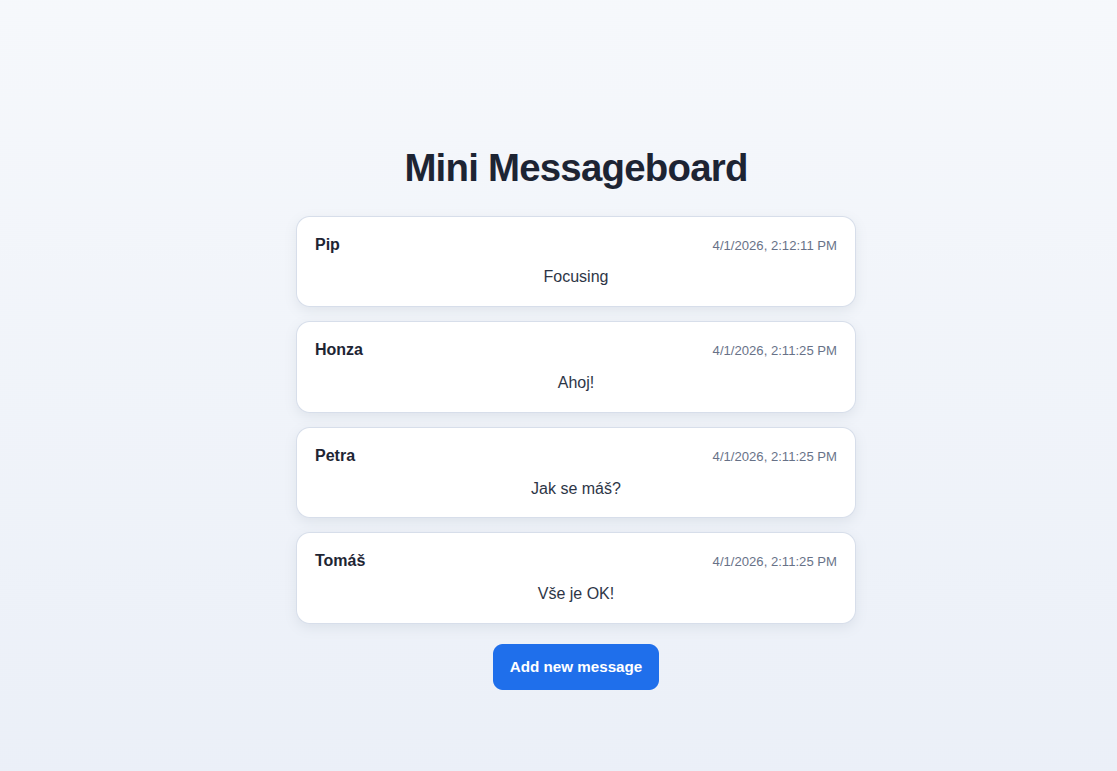
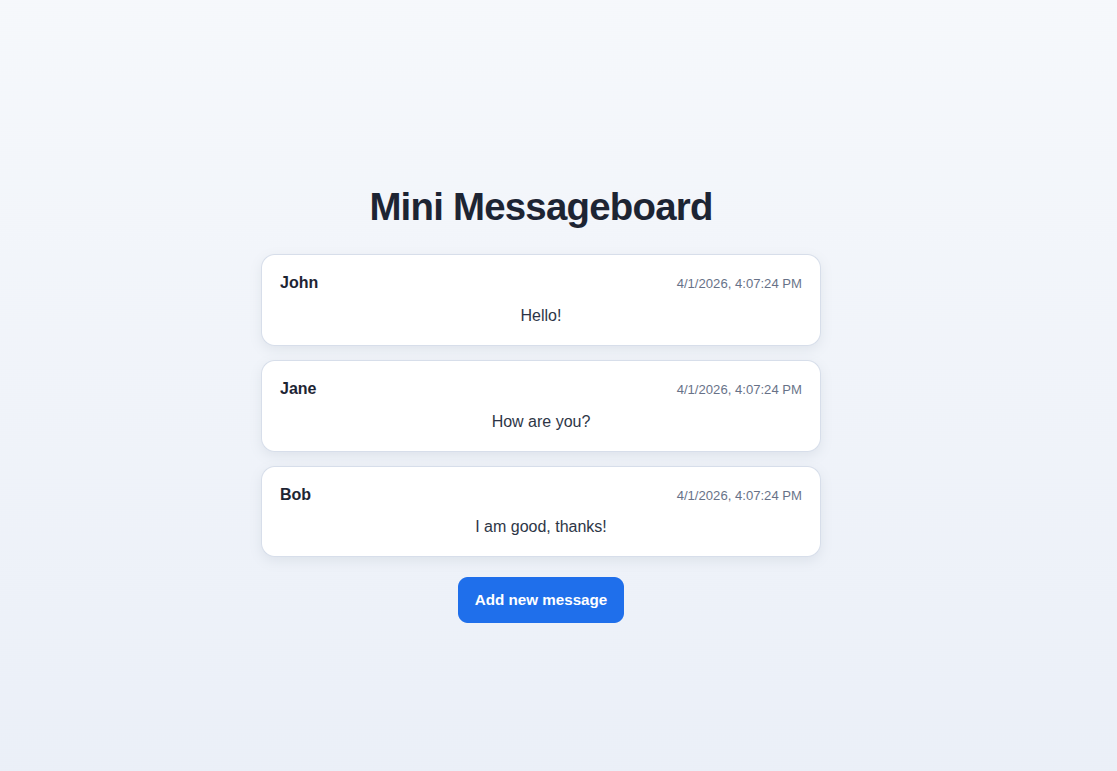
aj translations

diff --git a/db/populatedb.js b/db/populatedb.js
@@ -9,9 +9,9 @@ const SQL = `
     created_at TIMESTAMP DEFAULT CURRENT_TIMESTAMP
   );
   INSERT INTO messages (username, message) VALUES 
-    ('Honza', 'Ahoj!'),
-    ('Petra', 'Jak se máš?'),
-    ('Tomáš', 'Vše je OK!');
+    ('John', 'Hello!'),
+    ('Jane', 'How are you?'),
+    ('Bob', 'I am good, thanks!');
 `;
 
 async function main() {
